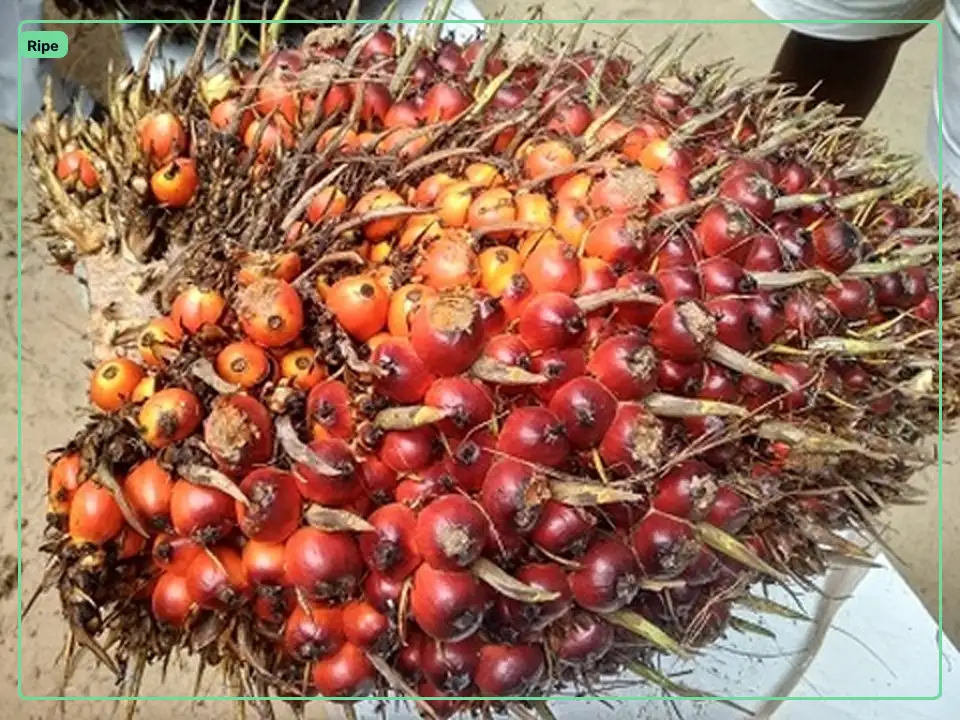
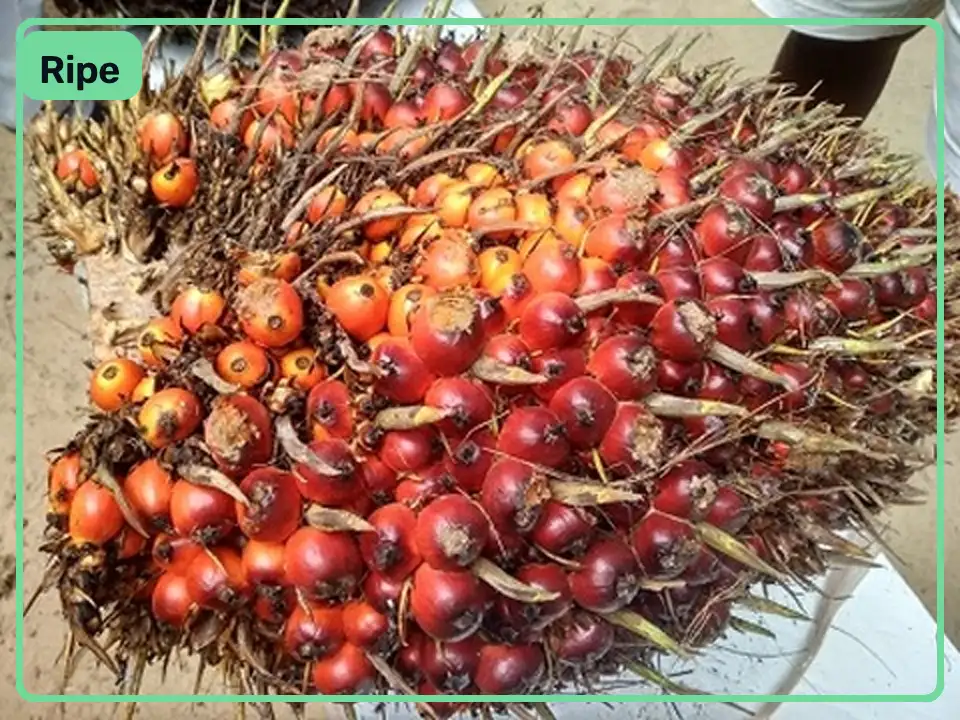
feat(demo): draw the demo boxes at the Lampung style, not the thin code defaults

Changed region(s): [[0.0, 0.0, 1.0, 0.9778]]

diff --git a/scripts/buat-frame-demo.py b/scripts/buat-frame-demo.py
@@ -17,6 +17,10 @@ from palmgrade.pipelines.realtime_inspection_pipeline import RealtimeInspectionP
 
 KELAS = ["Ripe", "Unripe", "JK", "TP"]
 TINGGI = 720
+# Lampung's .env (BORDER_THICKNESS 8, FONT_SCALE 2.5, FONT_THICKNESS 5) after the line shrinks it
+# from the 1224x1024 sensor frame to the 720 px stream (factor 0.70, skala_tampilan.gaya_berskala):
+# the demo boxes look like the factory screen, not like the thin code defaults.
+GAYA = {"border_thickness": 6, "font_scale": 1.76, "font_thickness": 4}
 # (source, crop right px, boxes as (class, x%, y%, w%, h%)). 01.jpeg is left out: watermark.
 FOTO = [
     ("02.jpg", 0, [("Ripe", 2, 3, 96, 94)]),
@@ -38,7 +42,7 @@ def hasil(boxes, w, h):
 
 def main(src: Path) -> None:
     OUT.mkdir(parents=True, exist_ok=True)
-    gambar = SimpleNamespace(settings=Settings())  # draw_boxes only reads self.settings
+    gambar = SimpleNamespace(settings=Settings(**GAYA))  # draw_boxes only reads self.settings
     daftar = []
     for n, (asal, potong, boxes) in enumerate(FOTO, start=1):
         f = cv2.imread(str(src / asal))
